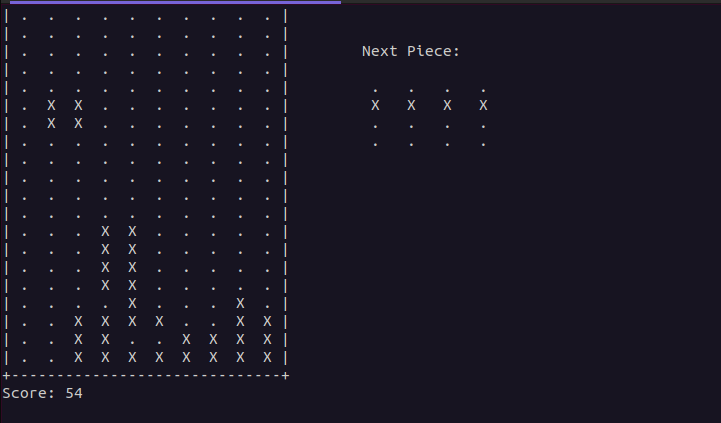
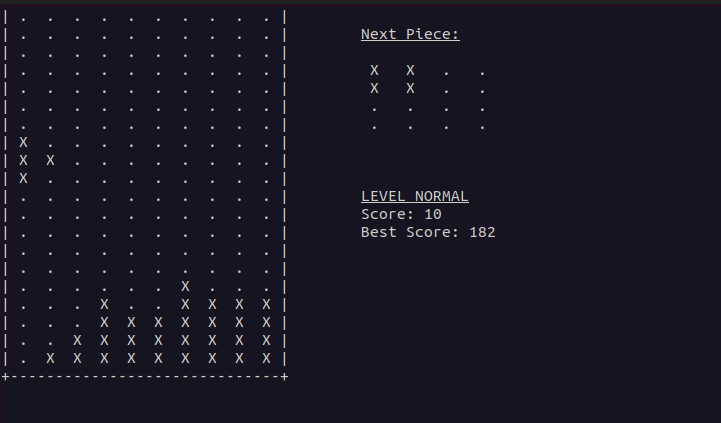
update screen layout

diff --git a/utils/piece_move.py b/utils/piece_move.py
@@ -20,6 +20,7 @@ class PieceMover:
         self.fall_speed = LEVELS[level]
         self.pause_handler = PauseHandler(stdscr)
         self.best_score = best_score
+        self.level=level
 
     def can_move(self, dx, dy):
         for row_idx, row in enumerate(self.piece):
@@ -83,16 +84,17 @@ class PieceMover:
             
             self.stdscr.addstr("+" + "---" * self.board.width + "+\n")
 
-            self.stdscr.addstr(f"Score: {self.board.get_score()}\n")
-            self.stdscr.addstr(f"Best Score: {self.best_score}\n")
-
             next_piece = self.piece_queue.preview_piece()
             if next_piece:
                 preview_x = self.board.width * 3 + 10  
-                self.stdscr.addstr(2, preview_x, "Next Piece:")
+                
+                self.stdscr.addstr(1, preview_x, "Next Piece:",curses.A_UNDERLINE)
                 for row_idx, row in enumerate(next_piece):
-                    self.stdscr.addstr(4 + row_idx, preview_x, " ".join([" . " if cell == 0 else " X " for cell in row]))
+                    self.stdscr.addstr(3 + row_idx, preview_x, " ".join([" . " if cell == 0 else " X " for cell in row]))
 
+                self.stdscr.addstr(10,preview_x,f"LEVEL {self.level.upper()}\n",curses.A_UNDERLINE)
+                self.stdscr.addstr(11,preview_x,f"Score: {self.board.get_score()}\n")
+                self.stdscr.addstr(12,preview_x,f"Best Score: {self.best_score}\n")
         else:
             self.stdscr.addstr("Screen too small to display the game!\n")
 
